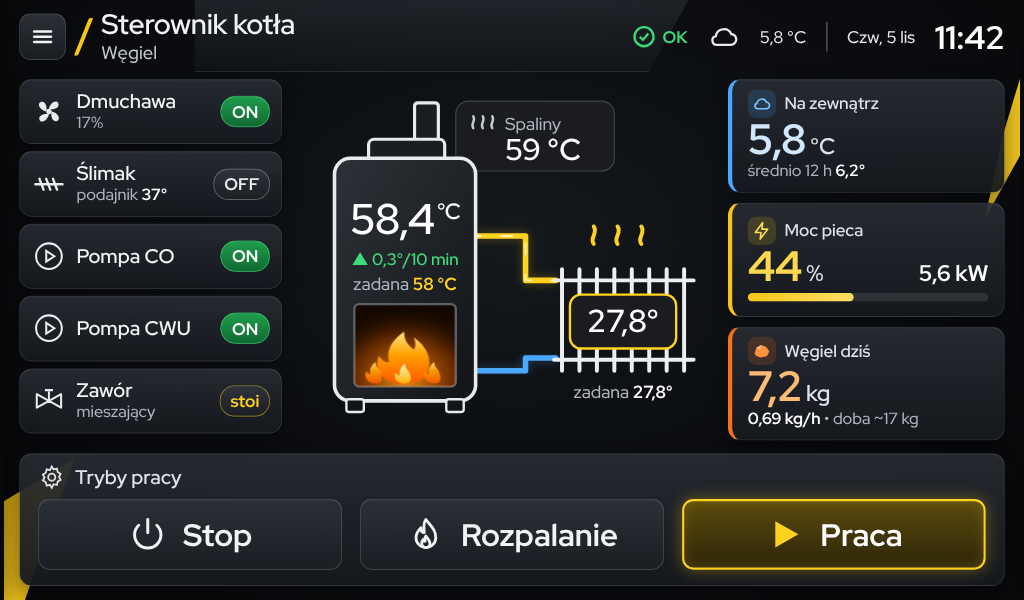
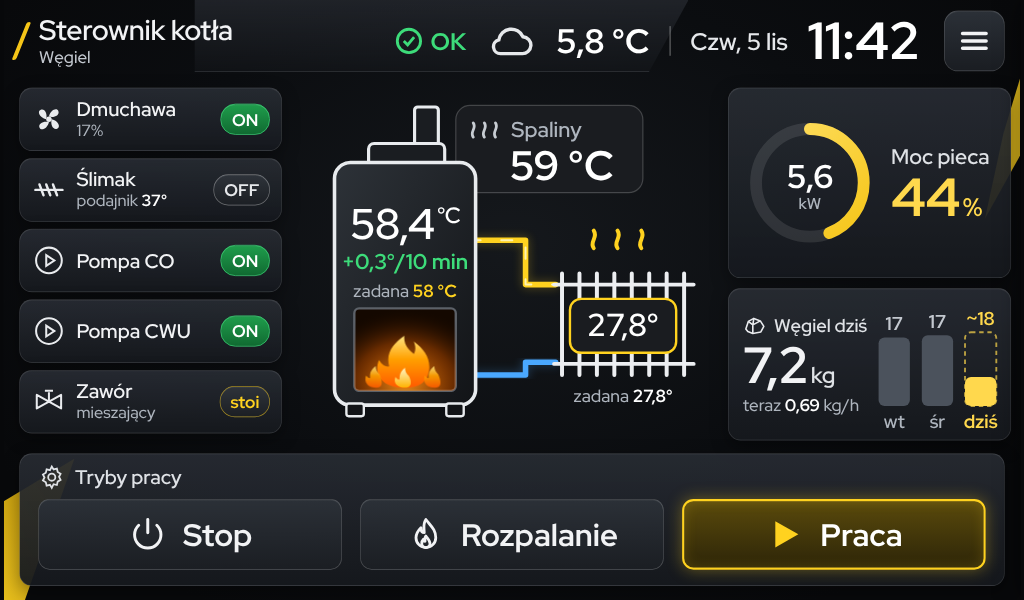
Docs: newer concept of the main screen
Claude-Session: https://claude.ai/code/session_01DdT8uyvcAeLMFEL7SL1R7f

diff --git a/docs/concept/panel.html b/docs/concept/panel.html
@@ -3,7 +3,7 @@
 <head>
 <meta charset="utf-8">
 <meta name="viewport" content="width=device-width, initial-scale=1">
-<title>Panel kotła – koncept 10</title>
+<title>Panel kotła – koncept 14</title>
 <link rel="stylesheet" href="https://fonts.googleapis.com/css2?family=Red+Hat+Display:wght@500;600;700&display=block">
 <style>
   /* drawn on a 1440x850 grid (the concept's look, no side menu), scaled to the screen */
@@ -14,20 +14,20 @@
   svg text { font-family: "Red Hat Display", "Segoe UI", system-ui, sans-serif; }
   .stage { position: absolute; left: 0; top: 0; width: 1440px; height: 850px; transform-origin: 0 0; overflow: hidden;
     background: radial-gradient(ellipse 60% 70% at 50% 40%, #15181c 0%, #0b0d10 60%, #08090b 100%);
-    display: grid; grid-template-rows: 84px 1fr 188px; gap: 18px; padding: 10px 22px 20px; }
+    display: grid; grid-template-rows: 96px 1fr 188px; gap: 18px; padding: 10px 22px 20px; }
   .wedge { position: absolute; pointer-events: none; z-index: 0; }
 
   /* header */
   header { position: relative; display: flex; align-items: center; gap: 22px; z-index: 1; }
-  .burger { width: 66px; height: 66px; border-radius: 16px; display: grid; place-items: center; cursor: pointer;
+  .burger { width: 86px; height: 86px; border-radius: 20px; margin-left: 6px; display: grid; place-items: center; cursor: pointer;
     background: linear-gradient(180deg, #2b3037, #1a1d22); border: 1px solid rgba(255,255,255,0.18); box-shadow: inset 0 1px 0 rgba(255,255,255,0.08); }
-  .burger svg { width: 36px; height: 36px; }
+  .burger svg { width: 50px; height: 50px; }
   .slashbar { width: 6px; height: 54px; background: #f5c518; transform: skewX(-22deg); border-radius: 3px; }
   .title b { display: block; font-size: 40px; font-weight: 600; letter-spacing: -.3px; line-height: 1.1; }
   .title span { display: block; font-size: 24px; font-weight: 500; color: #c3c8cf; }
-  .hdr-right { margin-left: auto; display: flex; align-items: center; gap: 26px; font-size: 26px; color: #e6e8eb; }
+  .hdr-right { margin-left: auto; display: flex; align-items: center; gap: 28px; font-size: 34px; font-weight: 600; color: #e6e8eb; }
   .hdr-right .vr { width: 2px; height: 42px; background: rgba(255,255,255,0.3); }
-  .hdr-right .clock { font-size: 50px; font-weight: 700; color: #fff; }
+  .hdr-right .clock { font-size: 74px; font-weight: 700; color: #fff; }
   .hdr-right .ok { color: #3ddc7a; font-weight: 700; display: flex; align-items: center; gap: 8px; }
   .head-glass { position: absolute; left: 0; top: 0; width: 760px; height: 104px; z-index: 0;
     background: linear-gradient(180deg, rgba(48,52,60,0.5), rgba(30,33,38,0.2)); clip-path: polygon(0 0, 100% 0, 93% 100%, 0 100%); }
@@ -39,7 +39,7 @@
   .m-title svg { width: 40px; height: 40px; }
   .m-title small { font-size: 20px; color: #aeb5be; font-weight: 500; }
   .scene { width: 100%; height: 100%; }
-  .side { display: grid; grid-template-rows: repeat(3, 1fr); gap: 14px; min-height: 0; }
+  .side { display: grid; grid-template-rows: 1.25fr 1fr; gap: 14px; min-height: 0; }
   .status { display: grid; grid-template-columns: repeat(5, 1fr); z-index: 1; }
   .st { display: flex; align-items: center; gap: 18px; padding-left: 26px; min-width: 0; }
   .st + .st { border-left: 1px solid rgba(255,255,255,0.1); }
@@ -58,14 +58,6 @@
     clip-path: polygon(0 0, 100% 0, 92% 100%, 0 100%); border-bottom: 1px solid rgba(255,255,255,0.08); }
   .brand-mark { left: 58px; top: 22px; width: 64px; height: 64px; }
   .brand-name { left: 140px; top: 34px; font-size: 32px; font-weight: 700; letter-spacing: 3px; }
-  .slashbar { left: 360px; top: 26px; width: 6px; height: 54px; background: #f5c518; transform: skewX(-22deg); border-radius: 3px; }
-  .title { left: 426px; top: 12px; }
-  .title b { display: block; font-size: 40px; font-weight: 600; letter-spacing: -.3px; }
-  .title span { display: block; font-size: 26px; font-weight: 500; color: #c3c8cf; margin-top: 2px; }
-  .hdr-right { right: 42px; top: 22px; height: 56px; display: flex; align-items: center; gap: 28px; font-size: 24px; color: #e6e8eb; }
-  .hdr-right .vr { width: 2px; height: 42px; background: rgba(255,255,255,0.3); }
-  .hdr-right .clock { font-size: 46px; font-weight: 700; color: #fff; }
-  .hdr-right .ok { color: #3ddc7a; font-weight: 700; display: flex; align-items: center; gap: 8px; }
 
   /* nav */
   .nav-item { left: 0; width: 262px; height: 80px; display: flex; align-items: center; gap: 22px; padding-left: 38px; font-size: 24px; font-weight: 500; color: #e9ebee; }
@@ -155,13 +147,40 @@
   .t-blue { border-left: 6px solid #4aa8ff !important; } .t-blue .chip { background: rgba(74,168,255,0.16); color: #7cc4ff; } .t-blue .tv { color: #cfe8ff; }
   .t-yellow { border-left: 6px solid #f5c518 !important; } .t-yellow .chip { background: rgba(245,197,24,0.16); color: #ffd84d; } .t-yellow .tv { color: #ffd84d; }
   .t-orange { border-left: 6px solid #f97316 !important; } .t-orange .chip { background: rgba(249,115,22,0.16); color: #fb923c; } .t-orange .tv { color: #fdba74; }
+  .vrow { display: flex; align-items: center; gap: 16px; padding: 0 22px 0 18px; min-height: 0; }
+  .vrow > svg { width: 56px; height: 56px; flex: none; }
+  .vrow .n { font-size: 30px; font-weight: 600; line-height: 1.1; white-space: nowrap; }
+  .vrow .s { font-size: 26px; color: #aeb5be; }
+  .vrow .s b { color: #fff; }
+  .vrow .v { margin-left: auto; font-size: 70px; font-weight: 700; letter-spacing: -1px; white-space: nowrap; }
+  .vrow .v small { font-size: 30px; font-weight: 600; color: #dfe2e6; margin-left: 4px; letter-spacing: 0; }
+  .power { display: flex; align-items: center; gap: 22px; padding: 10px 22px; min-height: 0; }
+  .power .ring { height: 100%; max-height: 186px; width: auto; flex: none; }
+  .power .n { font-size: 30px; font-weight: 600; color: #dfe2e6; white-space: nowrap; }
+  .power .pv { font-size: 76px; font-weight: 700; color: #ffd84d; line-height: 1; letter-spacing: -1px; }
+  .power .pv small { font-size: 36px; margin-left: 4px; }
+  .coal2 { display: grid; grid-template-columns: 1fr 1fr; gap: 14px; min-height: 0; }
+  .ct { display: flex; flex-direction: column; justify-content: center; padding: 10px 14px; min-height: 0; }
+  .ct .ch { display: flex; align-items: center; gap: 10px; white-space: nowrap; font-size: 23px; font-weight: 600; color: #dfe2e6; }
+  .ct .ch svg { width: 32px; height: 32px; flex: none; }
+  .ct .cv { font-size: 56px; font-weight: 700; line-height: 1.05; letter-spacing: -1px; margin-top: 6px; }
+  .ct .cv small { font-size: 26px; font-weight: 600; color: #dfe2e6; margin-left: 4px; letter-spacing: 0; }
+  .coal { display: flex; align-items: center; gap: 10px; padding: 8px 14px 8px 20px; min-height: 0; }
+  .coal .cl { flex: 1; min-width: 0; }
+  .coal .ch { display: flex; align-items: center; gap: 10px; font-size: 26px; font-weight: 600; color: #dfe2e6; white-space: nowrap; }
+  .coal .ch svg { width: 34px; height: 34px; flex: none; }
+  .coal .cv { font-size: 72px; font-weight: 700; line-height: 1; letter-spacing: -1px; margin-top: 4px; }
+  .coal .cv small { font-size: 32px; font-weight: 600; color: #dfe2e6; margin-left: 4px; letter-spacing: 0; }
+  .coal .cs { font-size: 24px; color: #aeb5be; margin-top: 4px; white-space: nowrap; }
+  .coal .cs b { color: #fff; }
+  .coal .bars { height: 100%; max-height: 190px; width: auto; flex: none; }
   /* the menu: slides in from the left */
-  .drawer { position: absolute; left: 0; top: 0; bottom: 0; width: 340px; z-index: 5; transform: translateX(-105%); transition: transform .2s ease-out;
-    background: linear-gradient(180deg, #1c2026, #121417); border-right: 1px solid rgba(255,255,255,0.12); padding: 110px 0 20px; box-shadow: 12px 0 40px rgba(0,0,0,0.6); }
+  .drawer { position: absolute; right: 0; top: 0; bottom: 0; width: 360px; z-index: 5; transform: translateX(105%); transition: transform .2s ease-out;
+    background: linear-gradient(180deg, #1c2026, #121417); border-left: 1px solid rgba(255,255,255,0.12); padding: 120px 0 20px; box-shadow: -12px 0 40px rgba(0,0,0,0.6); }
   .drawer.open { transform: none; }
   .drawer a { display: flex; align-items: center; gap: 22px; padding: 0 0 0 36px; height: 86px; color: #e9ebee; text-decoration: none; font-size: 30px; font-weight: 600; }
   .drawer a svg { width: 44px; height: 44px; }
-  .drawer a.active { color: #111; background: linear-gradient(90deg, #ffd21f, #f4c000); clip-path: polygon(0 0, 100% 0, 90% 100%, 0 100%); }
+  .drawer a.active { color: #111; background: linear-gradient(90deg, #ffd21f, #f4c000); clip-path: polygon(10% 0, 100% 0, 100% 100%, 0 100%); padding-left: 56px; }
   .shade { position: absolute; inset: 0; background: rgba(0,0,0,0.5); z-index: 4; display: none; }
   .shade.open { display: block; }
 
@@ -183,16 +202,17 @@
   <div class="head-glass"></div>
 
   <header>
-    <div class="burger" id="burger"><svg viewBox="0 0 24 24" fill="none" stroke="#f2f3f5" stroke-width="2.4" stroke-linecap="round"><path d="M4 7h16M4 12h16M4 17h16"/></svg></div>
+
     <div class="slashbar"></div>
     <div class="title"><b>Sterownik kotła</b><span>Węgiel</span></div>
     <div class="hdr-right">
-      <span class="ok"><svg width="36" height="36" viewBox="0 0 24 24" fill="none" stroke="currentColor" stroke-width="2.2"><circle cx="12" cy="12" r="9"/><path d="m8 12 3 3 5-6"/></svg>OK</span>
-      <svg width="46" height="46" viewBox="0 0 24 24" fill="none" stroke="#e6e8eb" stroke-width="1.7"><path d="M7 18h10a4 4 0 0 0 .5-8 6 6 0 0 0-11.4 1.5A3.3 3.3 0 0 0 7 18z"/></svg>
-      <span>5,8 °C</span>
+      <span class="ok"><svg width="44" height="44" viewBox="0 0 24 24" fill="none" stroke="currentColor" stroke-width="2.2"><circle cx="12" cy="12" r="9"/><path d="m8 12 3 3 5-6"/></svg>OK</span>
+      <svg width="72" height="72" viewBox="0 0 24 24" fill="none" stroke="#e6e8eb" stroke-width="1.6"><path d="M7 18h10a4 4 0 0 0 .5-8 6 6 0 0 0-11.4 1.5A3.3 3.3 0 0 0 7 18z"/></svg>
+      <span style="color:#fff;font-weight:700;font-size:48px">5,8 °C</span>
       <span class="vr"></span>
       <span>Czw, 5 lis</span>
       <span class="clock">11:42</span>
+      <div class="burger" id="burger"><svg viewBox="0 0 24 24" fill="none" stroke="#f2f3f5" stroke-width="2.4" stroke-linecap="round"><path d="M4 7h16M4 12h16M4 17h16"/></svg></div>
     </div>
   </header>
 
@@ -224,10 +244,10 @@
     <!-- chimney on the boiler, the flue gas next to it -->
     <rect x="146" y="2" width="30" height="50" rx="4" fill="#1a1d21" stroke="#e8ebee" stroke-width="4"/>
     <g transform="translate(198 0)">
-      <rect x="0" y="0" width="200" height="88" rx="16" fill="#1a1c20" stroke="rgba(255,255,255,0.2)" stroke-width="1.5"/>
-      <g fill="none" stroke="#c7ccd2" stroke-width="3" stroke-linecap="round"><path d="M22 34c-4-6 4-9 0-15M34 34c-4-6 4-9 0-15M46 34c-4-6 4-9 0-15"/></g>
-      <text x="62" y="36" fill="#aeb5be" font-size="22" font-weight="500">Spaliny</text>
-      <text x="62" y="74" fill="#fff" font-size="38" font-weight="600">59 °C</text>
+      <rect x="0" y="0" width="236" height="110" rx="18" fill="#1a1c20" stroke="rgba(255,255,255,0.2)" stroke-width="1.5"/>
+      <g fill="none" stroke="#c7ccd2" stroke-width="3.5" stroke-linecap="round"><path d="M22 40c-5-7 5-11 0-18M36 40c-5-7 5-11 0-18M50 40c-5-7 5-11 0-18"/></g>
+      <text x="70" y="40" fill="#aeb5be" font-size="27" font-weight="600">Spaliny</text>
+      <text x="68" y="94" fill="#fff" font-size="52" font-weight="700">59 °C</text>
     </g>
     <!-- boiler -->
     <rect x="88" y="48" width="96" height="30" rx="7" fill="#1a1d21" stroke="#e8ebee" stroke-width="4"/>
@@ -235,8 +255,8 @@
     <rect x="60" y="376" width="22" height="16" rx="3" fill="#121417" stroke="#e8ebee" stroke-width="3"/>
     <rect x="186" y="376" width="22" height="16" rx="3" fill="#121417" stroke="#e8ebee" stroke-width="3"/>
     <text x="134" y="168" text-anchor="middle" fill="#fff" font-size="54" font-weight="600" letter-spacing="-1">58,4<tspan font-size="28" dx="3" dy="-20">°C</tspan></text>
-    <text x="134" y="206" text-anchor="middle" fill="#3ddc7a" font-size="21" font-weight="600">▲ 0,3°/10 min</text>
-    <text x="134" y="238" text-anchor="middle" fill="#aeb5be" font-size="22" font-weight="500">zadana <tspan fill="#ffd21f" font-weight="700">58 °C</tspan></text>
+    <text x="134" y="206" text-anchor="middle" fill="#3ddc7a" font-size="27" font-weight="700">+0,3°/10 min</text>
+    <text x="134" y="242" text-anchor="middle" fill="#aeb5be" font-size="22" font-weight="500">zadana <tspan fill="#ffd21f" font-weight="700">58 °C</tspan></text>
     <!-- fire -->
     <rect x="70" y="256" width="128" height="104" rx="6" fill="#140800" stroke="#5c6168" stroke-width="3"/>
     <rect x="70" y="256" width="128" height="104" rx="6" fill="url(#fg)"/>
@@ -257,20 +277,37 @@
   </svg>
 
     <section class="side">
-      <div class="card tile2 t-blue">
-        <div class="th"><span class="chip"><svg viewBox="0 0 24 24" fill="none" stroke="currentColor" stroke-width="2"><path d="M7 18h10a4 4 0 0 0 .5-8 6 6 0 0 0-11.4 1.5A3.3 3.3 0 0 0 7 18z"/></svg></span>Na zewnątrz</div>
-        <div class="tv">5,8<small>°C</small></div>
-        <div class="ts">średnio 12 h <b>6,2°</b></div>
+      <div class="card power">
+        <svg class="ring" viewBox="0 0 200 200">
+          <defs><linearGradient id="pr" x1="0" y1="1" x2="1" y2="0"><stop offset="0" stop-color="#f5c518"/><stop offset="1" stop-color="#ffe066"/></linearGradient></defs>
+          <!-- r=82: 2πr = 515; 44% = 227 -->
+          <circle cx="100" cy="100" r="82" fill="none" stroke="rgba(255,255,255,0.1)" stroke-width="18"/>
+          <circle cx="100" cy="100" r="82" fill="none" stroke="url(#pr)" stroke-width="18" stroke-linecap="round" stroke-dasharray="227 515" transform="rotate(-90 100 100)"/>
+          <text x="100" y="108" text-anchor="middle" fill="#fff" font-size="50" font-weight="700">5,6</text>
+          <text x="100" y="140" text-anchor="middle" fill="#aeb5be" font-size="24" font-weight="600">kW</text>
+        </svg>
+        <div><div class="n">Moc pieca</div><div class="pv">44<small>%</small></div></div>
       </div>
-      <div class="card tile2 t-yellow">
-        <div class="th"><span class="chip"><svg viewBox="0 0 24 24" fill="none" stroke="currentColor" stroke-width="2" stroke-linejoin="round"><path d="M13 2 4 14h7l-1 8 9-12h-7z"/></svg></span>Moc pieca</div>
-        <div class="tv">44<small>%</small><span class="tv2">5,6 kW</span></div>
-        <div class="bar"><i style="width:44%"></i></div>
-      </div>
-      <div class="card tile2 t-orange">
-        <div class="th"><span class="chip"><svg viewBox="0 0 24 24"><path d="M3 15.5 5.5 8 11 5l6.5 2.5L21 13l-3 5.5-8 1.5-5-2z" fill="currentColor"/><path d="M5.5 8 11 5l-1 6.5z" fill="#fff" opacity=".4"/></svg></span>Węgiel dziś</div>
-        <div class="tv">7,2<small>kg</small></div>
-        <div class="ts"><b>0,69 kg/h</b> • doba ~17 kg</div>
+      <div class="card coal">
+        <div class="cl">
+          <div class="ch"><svg viewBox="0 0 24 24" fill="none" stroke="#e9ebee" stroke-width="1.6" stroke-linejoin="round"><path d="M3 15.5 5.5 8 11 5l6.5 2.5L21 13l-3 5.5-8 1.5-5-2z"/><path d="M5.5 8 10 11.5 11 5M10 11.5l7.5-4M10 11.5 10 20"/></svg>Węgiel dziś</div>
+          <div class="cv">7,2<small>kg</small></div>
+          <div class="cs">teraz <b>0,69</b> kg/h</div>
+        </div>
+        <svg class="bars" viewBox="0 0 170 180">
+          <g font-size="25" font-weight="700" text-anchor="middle">
+            <rect x="6" y="54" width="42" height="92" rx="8" fill="#4b525c"/>
+            <text x="27" y="44" fill="#c3c8cf">17</text>
+            <text x="27" y="176" fill="#aeb5be" font-weight="600">wt</text>
+            <rect x="64" y="51" width="42" height="95" rx="8" fill="#4b525c"/>
+            <text x="85" y="41" fill="#c3c8cf">17</text>
+            <text x="85" y="176" fill="#aeb5be" font-weight="600">śr</text>
+            <rect x="122" y="47" width="42" height="99" rx="8" fill="none" stroke="#ffd84d" stroke-width="2.5" stroke-dasharray="6 5" opacity=".7"/>
+            <rect x="122" y="107" width="42" height="39" rx="8" fill="#ffd84d"/>
+            <text x="143" y="37" fill="#ffd84d">~18</text>
+            <text x="143" y="176" fill="#ffd84d">dziś</text>
+          </g>
+        </svg>
       </div>
     </section>
   </div>

diff --git a/docs/concept/README.md b/docs/concept/README.md
@@ -3,12 +3,13 @@
 Szkic wyglądu, jeszcze niepodłączony do sterownika (dane na sztywno). Otwórz `panel.html` w przeglądarce -
 kliknięcie Stop / Rozpalanie / Praca przełącza widok, ☰ wysuwa menu.
 
-- rysunek: kocioł (temperatura, trend, zadana), komin ze spalinami, grzejnik (temperatura, zadana)
+- rysunek: kocioł (temperatura, trend +/-, zadana), komin ze spalinami, grzejnik (temperatura, zadana)
 - lewa kolumna: dmuchawa, ślimak (z temperaturą podajnika), pompa CO, pompa CWU, zawór - stan ON/OFF;
   w STOP dmuchawa i ślimak dostają przełącznik ręczny zamiast stanu
-- prawa kolumna: na zewnątrz, moc pieca (z paskiem), węgiel dziś
+- prawa kolumna: moc pieca (wskaźnik kołowy %, w środku kW), węgiel - dziś, teraz (kg/h) i słupki z 3 dni
+  (dzisiejszy: spalone + przerywany obrys do szacunku na całą dobę)
+- górny pasek: status, pogoda, data, zegar i ☰ (menu wysuwane z prawej)
 - na dole duże przyciski trybów: Stop, Rozpalanie, Praca
-- menu tylko pod ☰ (wysuwane z lewej)
 - rysowany na siatce 1440x850 i skalowany do ekranu; czcionka Red Hat Display (na Pi - dołączyć plik czcionki)
 
 | PRACA | STOP |

diff --git a/CHANGELOG.md b/CHANGELOG.md
@@ -2,6 +2,10 @@
 
 Wszystkie wersje, od najnowszej. Wersja w `VERSION`: Z = poprawka, Y = nowa funkcja, X = duża zmiana.
 
+## 1.63.4 · 05.11.2026 17:30
+
+- Dokumentacja: nowsza wersja konceptu ekranu głównego w `docs/concept` (moc jako wskaźnik kołowy, karta węgla ze słupkami z 3 dni, menu ☰ po prawej, większy górny pasek i spaliny) - tylko szkic wyglądu, sterownik bez zmian.
+
 ## 1.63.3 · 05.11.2026 15:30
 
 - Dokumentacja: koncept nowego ekranu głównego w `docs/concept` (plik HTML i zrzuty) - tylko szkic wyglądu, sterownik bez zmian.
